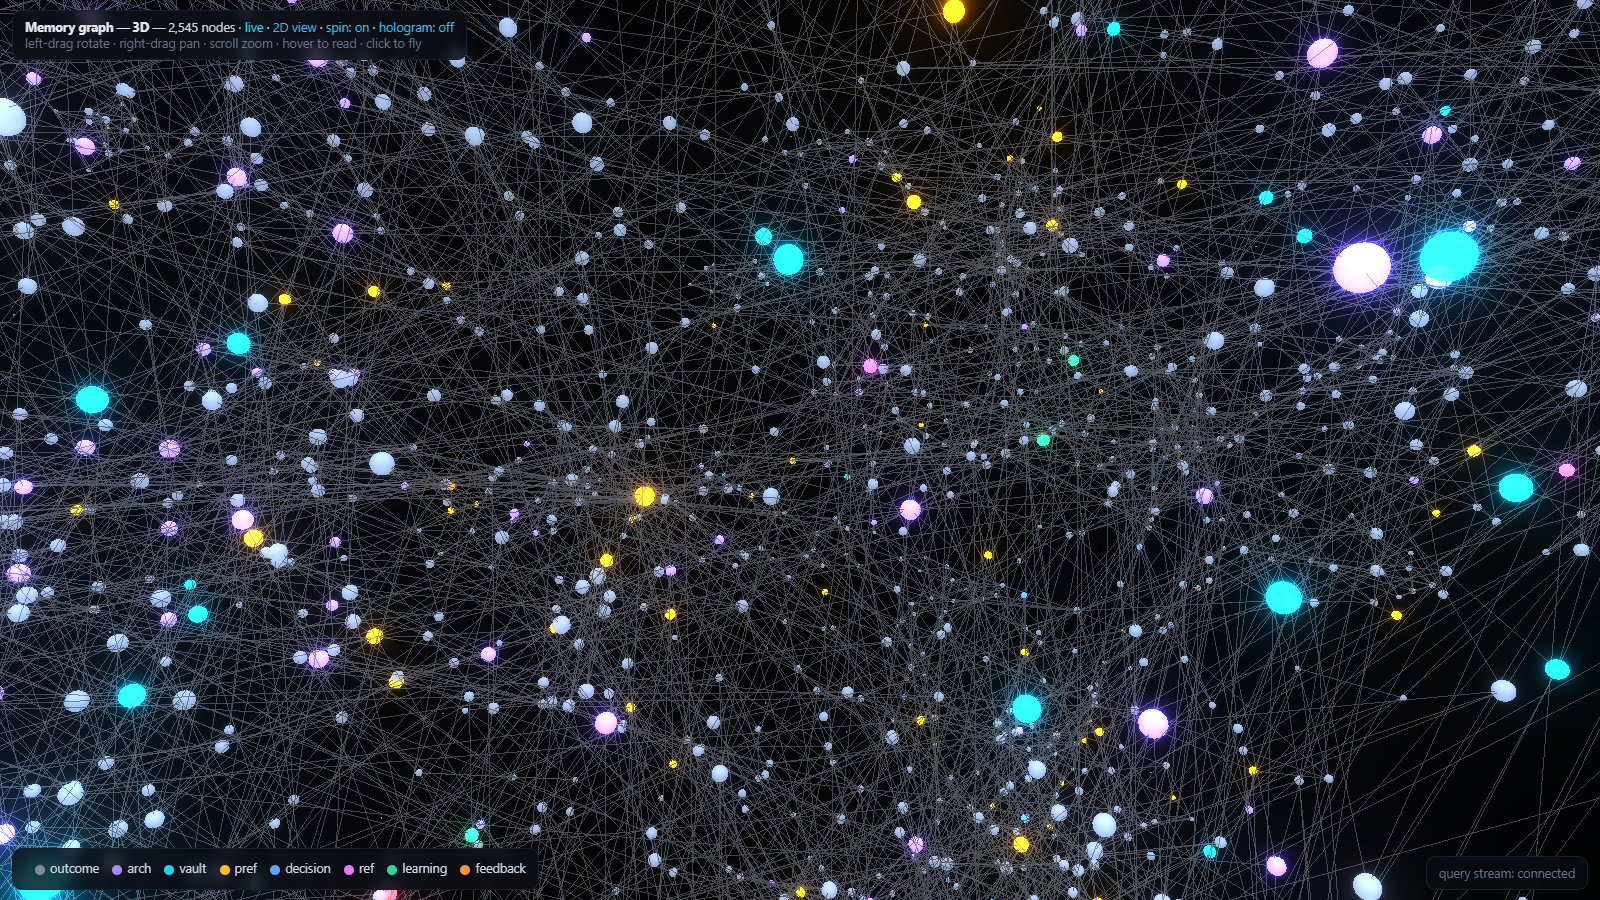
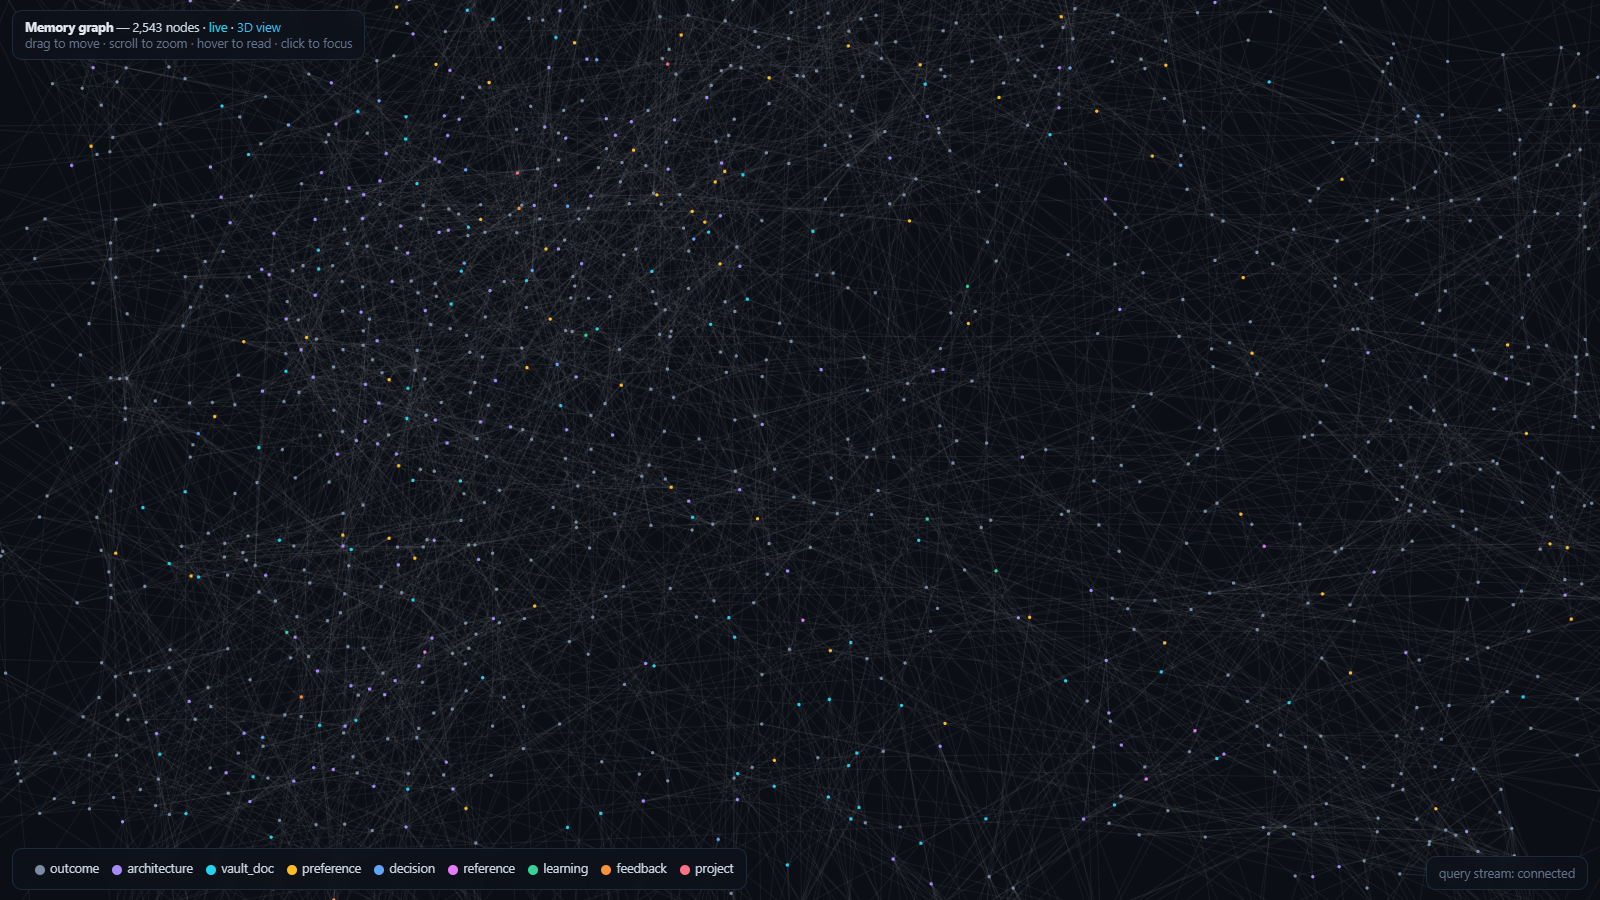
README hero: 2D graph view

diff --git a/README.md b/README.md
@@ -6,8 +6,8 @@
 
 **Persistent, token-efficient memory for Claude Code.** Give the agent a memory that survives across sessions, projects, and machines — a "cache" for everything it should remember between runs, so it stops forgetting what you told it last week and stops re-reading your whole codebase to answer *"where is X used?"*
 
-![The live 3D memory graph — every node is a memory, clustered by meaning, pulsing in real time as sessions search and save](docs/assets/memory-graph.png)
-*The optional [live 3D memory graph](docs/VISUALIZER.md), shown here on one real installation after ~3 months of use. Every node is one of **your** memories — the graph starts empty and grows as your sessions save them, clustered by meaning and pulsing as sessions think. Measured results from the same installation: [docs/STATS.md](docs/STATS.md).*
+![The live memory graph — every node is a memory, clustered by meaning, pulsing in real time as sessions search and save](docs/assets/memory-graph.png)
+*The optional [live memory graph](docs/VISUALIZER.md) (2D view shown; a full 3D mode with hologram effects is one click away), from one real installation after ~3 months of use. Every node is one of **your** memories — the graph starts empty and grows as your sessions save them, clustered by meaning and pulsing as sessions think. Measured results from the same installation: [docs/STATS.md](docs/STATS.md).*
 
 > ⚠️ Unofficial. Not affiliated with Anthropic. "Claude" is a trademark of Anthropic; this is an independent community project.
 